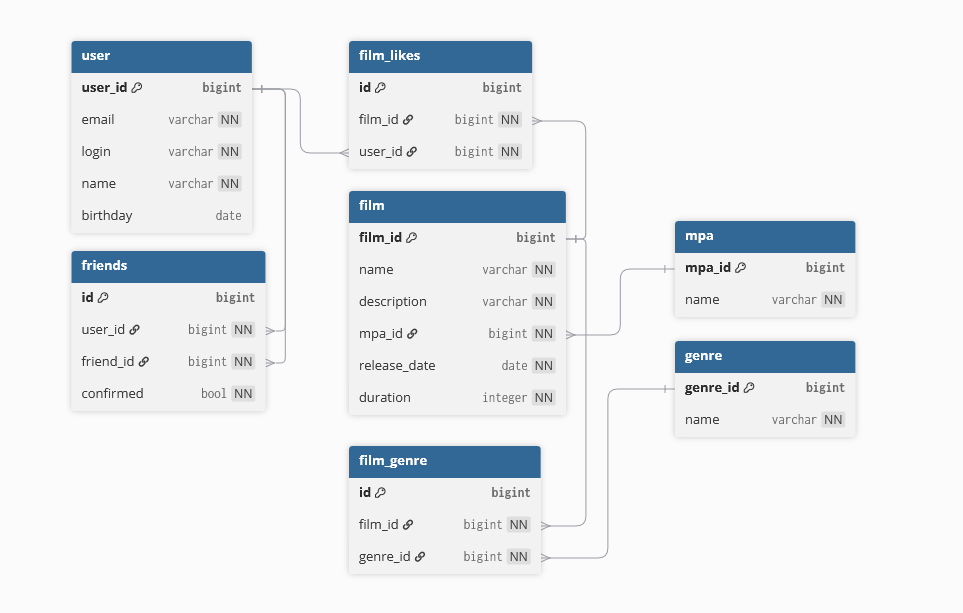
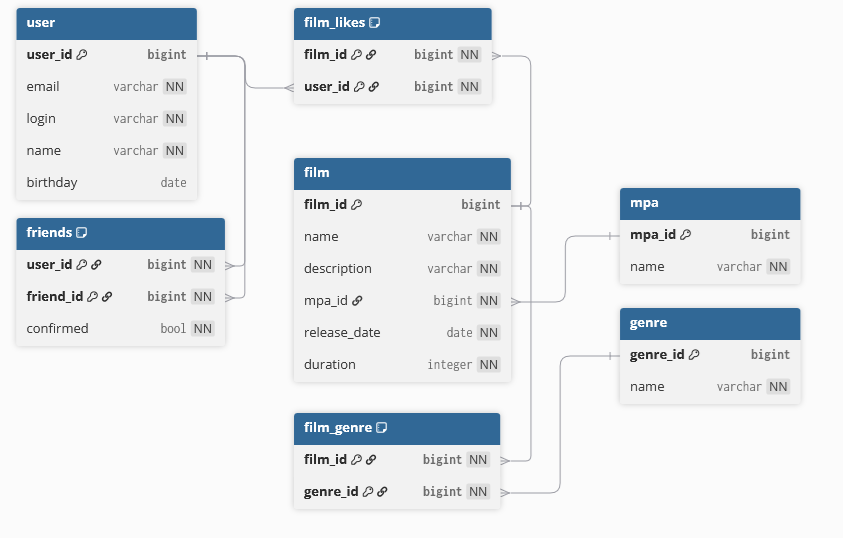
исправление ошибок (удалены InMemory реализации, удалены тестовые данные из data.sql, в data.sql INSERT заменен на MERGE, исправления в schema.sql, UserService.java, FilmService.java, удалено поле id из таблиц friends, film_genre, like)

diff --git a/src/main/java/ru/yandex/practicum/filmorate/storage/FriendDbStorage.java b/src/main/java/ru/yandex/practicum/filmorate/storage/FriendDbStorage.java
@@ -1,7 +1,6 @@
 package ru.yandex.practicum.filmorate.storage;
 
 import org.springframework.beans.factory.annotation.Autowired;
-import org.springframework.beans.factory.annotation.Qualifier;
 import org.springframework.dao.EmptyResultDataAccessException;
 import org.springframework.jdbc.core.namedparam.MapSqlParameterSource;
 import org.springframework.jdbc.core.namedparam.NamedParameterJdbcOperations;
@@ -19,9 +18,16 @@ import java.util.stream.Collectors;
 
 @Repository
 public class FriendDbStorage implements FriendStorage {
-    private final UserStorage userStorage;
     private static final String FIND_ALL_FRIENDS = "SELECT * FROM FRIENDS;";
-    private static final String FIND_USER_FRIENDS = "SELECT * FROM FRIENDS WHERE user_id = :userId";
+    private static final String FIND_USER_FRIENDS = """
+    SELECT *
+    FROM "USER"
+    WHERE user_id IN (
+        SELECT FRIEND_ID
+        FROM FRIENDS
+        WHERE user_id = :userId);;
+    """;
+
     private static final String FIND_FRIENDS_BY_IDS = "SELECT * FROM FRIENDS WHERE user_id IN (:userIds);";
     private static final String INSERT_FRIENDS_QUERY = "INSERT INTO FRIENDS (user_id, friend_id) " +
             "VALUES (:userId, :friendId);";
@@ -32,7 +38,7 @@ public class FriendDbStorage implements FriendStorage {
             """
                     SELECT * FROM "USER" WHERE user_id IN
                     (SELECT u1.friend_id
-                    FROM (SELECT id, user_id, friend_id FROM FRIENDS WHERE FRIENDS.USER_ID = :user1Id) AS u1
+                    FROM (SELECT user_id, friend_id FROM FRIENDS WHERE FRIENDS.USER_ID = :user1Id) AS u1
                     INNER JOIN (SELECT friend_id FROM FRIENDS WHERE FRIENDS.USER_ID = :user2Id) AS u2 ON u1.friend_id = u2.friend_id)""";
 
     private final NamedParameterJdbcOperations jdbc;
@@ -42,11 +48,9 @@ public class FriendDbStorage implements FriendStorage {
     @Autowired
     public FriendDbStorage(NamedParameterJdbcOperations jdbc,
                            FriendsRowMapper mapper,
-                           UserRowMapper userMapper,
-                           @Qualifier("UserDbStorage") UserStorage userStorage) {
+                           UserRowMapper userMapper) {
         this.jdbc = jdbc;
         this.mapper = mapper;
-        this.userStorage = userStorage;
         this.userMapper = userMapper;
     }
 
@@ -65,9 +69,9 @@ public class FriendDbStorage implements FriendStorage {
     }
 
     @Override
-    public List<Friends> findUserFriends(Long id) {
+    public List<User> findUserFriends(Long id) {
         try {
-            return jdbc.query(FIND_USER_FRIENDS, Map.of("userId", id), mapper);
+            return jdbc.query(FIND_USER_FRIENDS, Map.of("userId", id), userMapper);
         } catch (EmptyResultDataAccessException ignored) {
             return new ArrayList<>();
         }

diff --git a/src/main/java/ru/yandex/practicum/filmorate/service/FilmService.java b/src/main/java/ru/yandex/practicum/filmorate/service/FilmService.java
@@ -23,9 +23,9 @@ public class FilmService {
 
     @Autowired
     public FilmService(UserService userService,
-                       @Qualifier("FilmDbStorage") FilmStorage filmStorage,
-                       @Qualifier("UserDbStorage") UserStorage userStorage,
-                       @Qualifier("FilmGenreDbStorage") FilmGenreStorage filmGenreStorage,
+                       FilmStorage filmStorage,
+                       UserStorage userStorage,
+                       FilmGenreStorage filmGenreStorage,
                        MpaStorage mpaStorage,
                        GenreStorage genreStorage,
                        LikeStorage likeStorage) {
@@ -60,6 +60,11 @@ public class FilmService {
     }
 
     public Film create(Film newFilm) {
+        if (newFilm.getReleaseDate() != null &&
+                newFilm.getReleaseDate().isBefore(LocalDate.of(1895, 12, 28))) {
+            throw new ValidationException("Дата релиза не может быть раньше 28 декабря 1895 года или пустой");
+        }
+
         Optional<Mpa> mpaOpt = mpaStorage.findById(newFilm.getMpa().getId());
         if (mpaOpt.isEmpty()) {
             throw new NotFoundException("рейтинг с id " + newFilm.getMpa().getId() + " не существует");
@@ -69,11 +74,6 @@ public class FilmService {
         List<Genre> genres = genreStorage.findByIds(genreIds);
         if (genreIds.size() > genres.size()) {
             throw new NotFoundException("один или несколько жанров не существует");
-        }
-
-        if (newFilm.getReleaseDate() != null &&
-                newFilm.getReleaseDate().isBefore(LocalDate.of(1895, 12, 28))) {
-            throw new ValidationException("Дата релиза не может быть раньше 28 декабря 1895 года или пустой");
         }
 
         Film createdFilm = filmStorage.create(newFilm);
@@ -110,6 +110,11 @@ public class FilmService {
 
         if (newFilm.getReleaseDate() == null) {
             newFilm.setReleaseDate(filmOpt.get().getReleaseDate());
+        }
+
+        if (newFilm.getGenres() != null) {
+            filmGenreStorage.removeFilmGenreByFilmId(newFilm.getId());
+            newFilm.getGenres().forEach(fg -> filmGenreStorage.addFilmGenre(newFilm.getId(), fg.getId()));
         }
 
         return filmStorage.update(newFilm);

diff --git a/src/main/java/ru/yandex/practicum/filmorate/service/UserService.java b/src/main/java/ru/yandex/practicum/filmorate/service/UserService.java
@@ -19,7 +19,7 @@ public class UserService {
     private final FriendStorage friendStorage;
 
     @Autowired
-    public UserService(@Qualifier("UserDbStorage") UserStorage userStorage, FriendStorage friendStorage) {
+    public UserService(UserStorage userStorage, FriendStorage friendStorage) {
         this.userStorage = userStorage;
         this.friendStorage = friendStorage;
     }
@@ -121,10 +121,6 @@ public class UserService {
             throw new NotFoundException("пользователь с id " + id + " не найден.");
         }
 
-        List<Friends> userFriends = friendStorage.findUserFriends(id);
-        Set<Long> friendIds = userFriends.stream()
-                .map(Friends::getFriendId).collect(Collectors.toSet());
-        userOpt.get().setFriends(friendIds);
         return userOpt.get();
     }
 
@@ -134,24 +130,6 @@ public class UserService {
             throw new NotFoundException("Пользователь не найден");
         }
 
-        List<Friends> userFriendsRelation = friendStorage.findUserFriends(id);
-
-        if (userFriendsRelation.isEmpty()) {
-            return List.of();
-        }
-
-        List<User> userFriends = userStorage.findByIds(userFriendsRelation.stream().map(Friends::getFriendId).toList());
-
-        List<Friends> friendsOfFriends = friendStorage.findFriendsByIds(userFriends.stream().map(User::getId).toList());
-        Map<Long, Set<Long>> friendsOfFriendsMap = new HashMap<>();
-
-        friendsOfFriends.forEach((f) -> {
-            friendsOfFriendsMap.putIfAbsent(f.getUserId(), new HashSet<>());
-            friendsOfFriendsMap.get(f.getUserId()).add(f.getFriendId());
-        });
-
-        userFriends.forEach(u -> u.setFriends(friendsOfFriendsMap.get(u.getId())));
-
-        return userFriends;
+        return friendStorage.findUserFriends(id);
     }
 }

diff --git a/src/main/java/ru/yandex/practicum/filmorate/storage/FilmGenreDbStorage.java b/src/main/java/ru/yandex/practicum/filmorate/storage/FilmGenreDbStorage.java
@@ -14,7 +14,6 @@ import java.util.Map;
 
 @Repository
 @RequiredArgsConstructor
-@Qualifier("FilmGenreDbStorage")
 public class FilmGenreDbStorage implements FilmGenreStorage {
     private final NamedParameterJdbcOperations jdbc;
     private final FilmGenreRowMapper mapper;
@@ -22,6 +21,7 @@ public class FilmGenreDbStorage implements FilmGenreStorage {
 
     private static final String FIND_ALL_FILM_GENRES_QUERY = "SELECT * FROM FILM_GENRE;";
     private static final String INSERT_FILM_GENRE_QUERY = "INSERT INTO FILM_GENRE (film_id, genre_id) VALUES (:filmId, :genreId);";
+    private static final String REMOVE_FILM_GENRE_QUERY = "DELETE FROM FILM_GENRE WHERE film_id = :filmId;";
     private static final String FIND_FILM_GENRES_BY_FILM_ID_QUERY = """
     SELECT g.genre_id, g.name
     FROM GENRE AS g INNER JOIN FILM_GENRE AS fg ON g.genre_id = fg.genre_id
@@ -39,5 +39,9 @@ public class FilmGenreDbStorage implements FilmGenreStorage {
 
     public void addFilmGenre(Long filmId, Long genreId) {
         jdbc.update(INSERT_FILM_GENRE_QUERY, Map.of("filmId", filmId, "genreId", genreId));
+    }
+
+    public void removeFilmGenreByFilmId(Long filmId) {
+        jdbc.update(REMOVE_FILM_GENRE_QUERY, Map.of("filmId", filmId));
     }
 }

diff --git a/src/test/java/ru/yandex/practicum/filmorate/FilmorateFriendsDbTests.java b/src/test/java/ru/yandex/practicum/filmorate/FilmorateFriendsDbTests.java
@@ -9,6 +9,7 @@ import org.springframework.context.annotation.Import;
 import ru.yandex.practicum.filmorate.mappers.FriendsRowMapper;
 import ru.yandex.practicum.filmorate.mappers.UserRowMapper;
 import ru.yandex.practicum.filmorate.model.Friends;
+import ru.yandex.practicum.filmorate.model.User;
 import ru.yandex.practicum.filmorate.storage.FriendDbStorage;
 import ru.yandex.practicum.filmorate.storage.UserDbStorage;
 
@@ -29,9 +30,7 @@ public class FilmorateFriendsDbTests {
 
     @Test
     void findUserFriendsTest() {
-        List<Friends> friends = friendStorage.findUserFriends(1L);
+        List<User> friends = friendStorage.findUserFriends(1L);
         assertEquals(1, friends.size());
-
-        assertEquals(2, friends.get(0).getFriendId());
     }
 }

diff --git a/src/main/java/ru/yandex/practicum/filmorate/mappers/FilmGenreRowMapper.java b/src/main/java/ru/yandex/practicum/filmorate/mappers/FilmGenreRowMapper.java
@@ -12,7 +12,6 @@ public class FilmGenreRowMapper implements RowMapper<FilmGenre> {
     @Override
     public FilmGenre mapRow(ResultSet resultSet, int rowNum) throws SQLException {
         FilmGenre filmGenre = new FilmGenre();
-        filmGenre.setId(resultSet.getLong("id"));
         filmGenre.setFilmId(resultSet.getLong("film_id"));
         filmGenre.setGenreId(resultSet.getLong("genre_id"));
         return filmGenre;

diff --git a/src/main/java/ru/yandex/practicum/filmorate/mappers/FriendsRowMapper.java b/src/main/java/ru/yandex/practicum/filmorate/mappers/FriendsRowMapper.java
@@ -12,7 +12,6 @@ public class FriendsRowMapper implements RowMapper<Friends> {
     @Override
     public Friends mapRow(ResultSet resultSet, int rowNum) throws SQLException {
         Friends friends = new Friends();
-        friends.setId(resultSet.getLong("id"));
         friends.setUserId(resultSet.getLong("user_id"));
         friends.setFriendId(resultSet.getLong("friend_id"));
         return friends;

diff --git a/src/main/java/ru/yandex/practicum/filmorate/mappers/LikeRowMapper.java b/src/main/java/ru/yandex/practicum/filmorate/mappers/LikeRowMapper.java
@@ -12,7 +12,6 @@ public class LikeRowMapper implements RowMapper<Like> {
     @Override
     public Like mapRow(ResultSet resultSet, int rowNum) throws SQLException {
         Like like = new Like();
-        like.setId(resultSet.getLong("id"));
         like.setFilmId(resultSet.getLong("film_id"));
         like.setUserId(resultSet.getLong("user_id"));
         return like;

diff --git a/src/main/java/ru/yandex/practicum/filmorate/storage/UserDbStorage.java b/src/main/java/ru/yandex/practicum/filmorate/storage/UserDbStorage.java
@@ -18,7 +18,6 @@ import java.util.Map;
 import java.util.Optional;
 
 @Repository
-@Qualifier("UserDbStorage")
 public class UserDbStorage implements UserStorage {
     private static final String FIND_ALL_USERS = "SELECT * FROM \"USER\";";
     private static final String FIND_BY_EMAIL_QUERY = "SELECT * FROM \"USER\" WHERE email = :email";

diff --git a/src/main/java/ru/yandex/practicum/filmorate/service/GenreService.java b/src/main/java/ru/yandex/practicum/filmorate/service/GenreService.java
@@ -13,7 +13,7 @@ import java.util.Optional;
 public class GenreService {
     private final GenreStorage genreStorage;
 
-    public GenreService(@Qualifier("GenreDbStorage") GenreStorage genreStorage) {
+    public GenreService(GenreStorage genreStorage) {
         this.genreStorage = genreStorage;
     }
 

diff --git a/src/main/java/ru/yandex/practicum/filmorate/service/MpaService.java b/src/main/java/ru/yandex/practicum/filmorate/service/MpaService.java
@@ -15,7 +15,7 @@ public class MpaService {
     private final MpaStorage mpaStorage;
 
     @Autowired
-    public MpaService(@Qualifier("MpaDbStorage") MpaStorage mpaStorage) {
+    public MpaService(MpaStorage mpaStorage) {
         this.mpaStorage = mpaStorage;
     }
 

diff --git a/src/main/java/ru/yandex/practicum/filmorate/storage/GenreDbStorage.java b/src/main/java/ru/yandex/practicum/filmorate/storage/GenreDbStorage.java
@@ -13,7 +13,6 @@ import java.util.Map;
 import java.util.Optional;
 
 @Repository
-@Qualifier("GenreDbStorage")
 public class GenreDbStorage implements GenreStorage {
     private final NamedParameterJdbcOperations jdbc;
     private final GenreRowMapper mapper;
